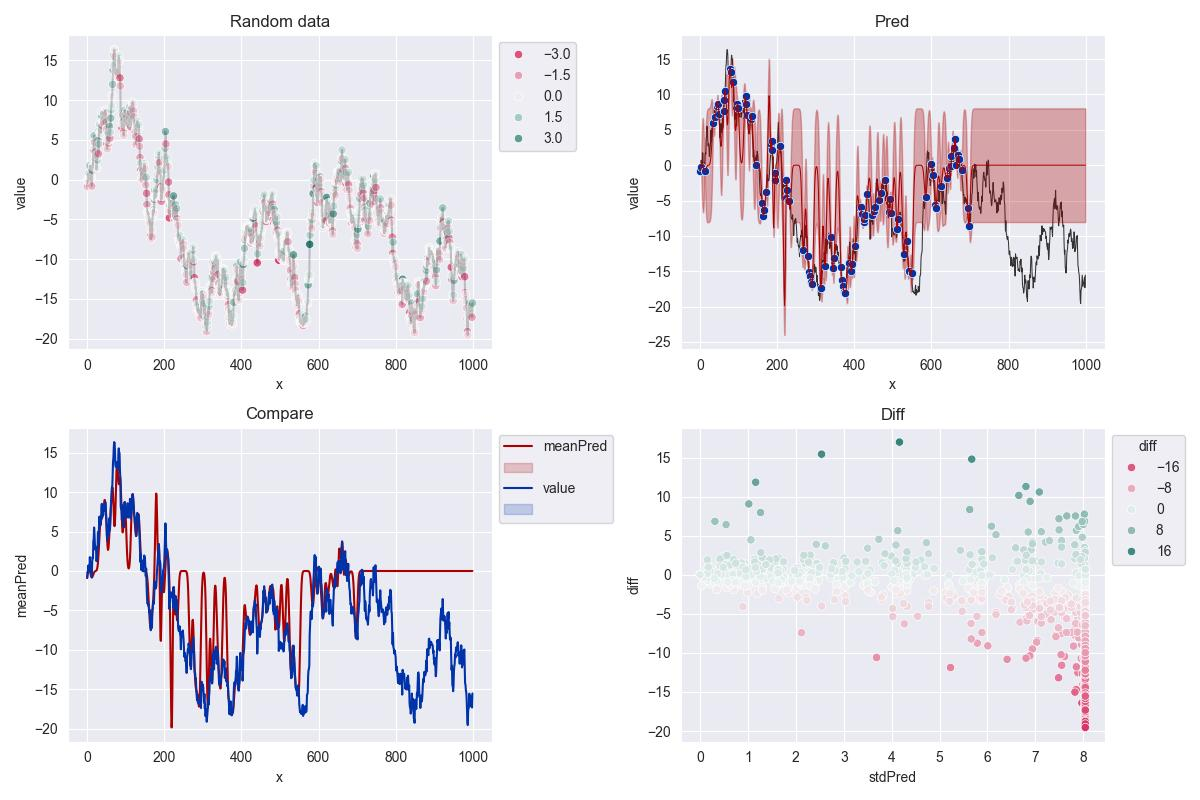
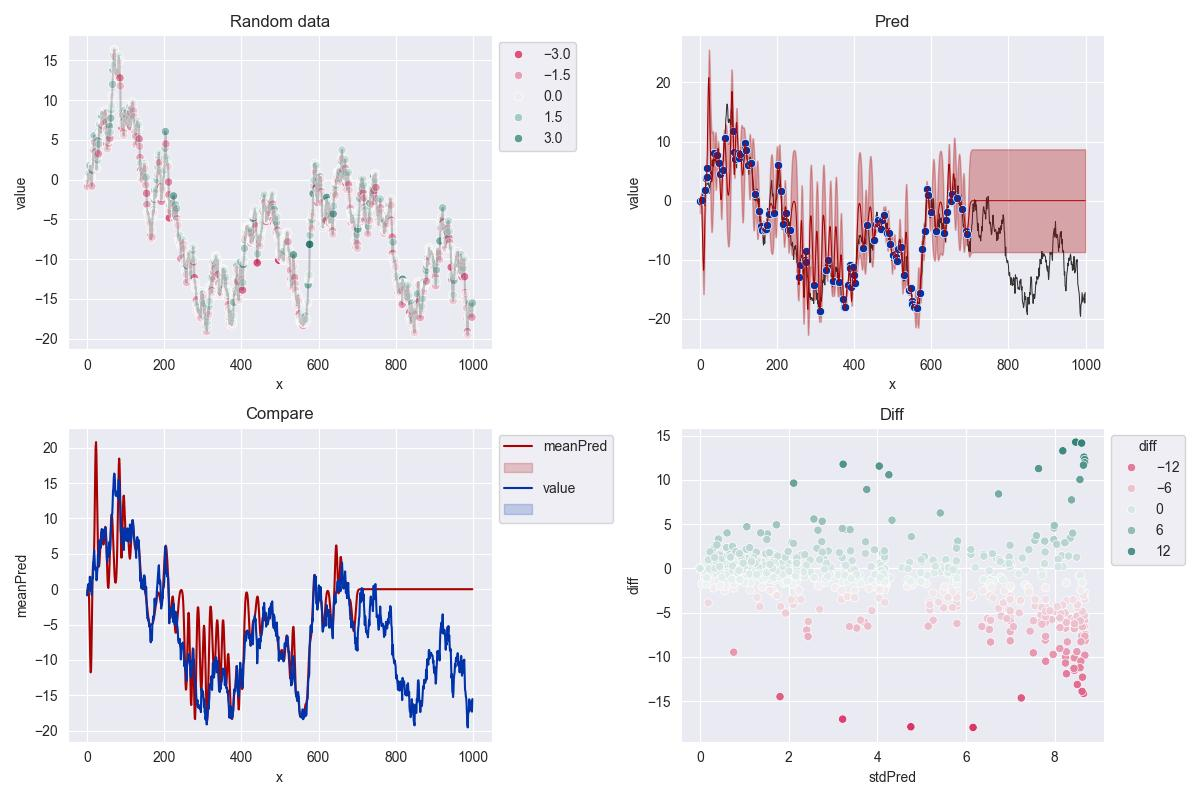
Compare gaussian process estimation only-within training range

diff --git a/Predict-random-walk/gaussian_process.py b/Predict-random-walk/gaussian_process.py
@@ -48,9 +48,9 @@ def fit(df: pd.DataFrame):
     testing_index = list(df.index)
 
     # Only train on the first half data
-    all_index = list(df.index[:int(total_length * 0.7)])
-    np.random.shuffle(all_index)
-    training_index = all_index[:training_samples]
+    training_half_index = list(df.index[:int(total_length * 0.7)])
+    np.random.shuffle(training_half_index)
+    training_index = training_half_index[:training_samples]
 
     # --------------------
     x_training = df.iloc[training_index]['x'].to_numpy()[:, np.newaxis]
@@ -75,9 +75,11 @@ def fit(df: pd.DataFrame):
     df['meanPred'] = None
     df['stdPred'] = None
     df['training'] = False
+    df['trainingHalf'] = False
     df.loc[testing_index, 'meanPred'] = mean_prediction
     df.loc[testing_index, 'stdPred'] = std_prediction
     df.loc[training_index, 'training'] = True
+    df.loc[training_half_index, 'trainingHalf'] = True
     df['diff'] = df['value'] - df['meanPred']
 
 
@@ -151,7 +153,7 @@ if __name__ == "__main__":
         ax.legend(labels=['meanPred', None, 'value', None])
 
     with use_ax(axs[1, 1], 'Diff') as ax:
-        sns.scatterplot(df, ax=ax, x='stdPred', y='diff',
+        sns.scatterplot(df[df['trainingHalf']], ax=ax, x='stdPred', y='diff',
                         hue='diff', palette=palette)
 
     fig.tight_layout()
